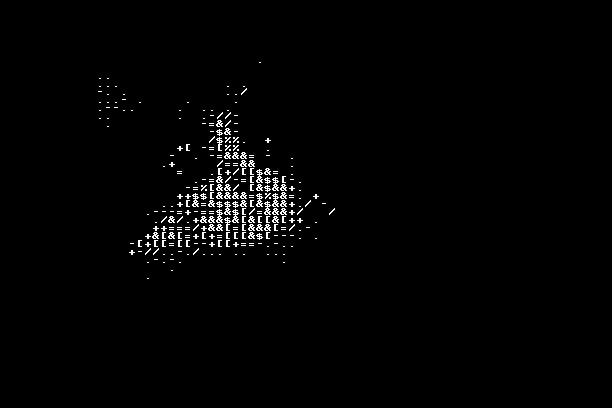
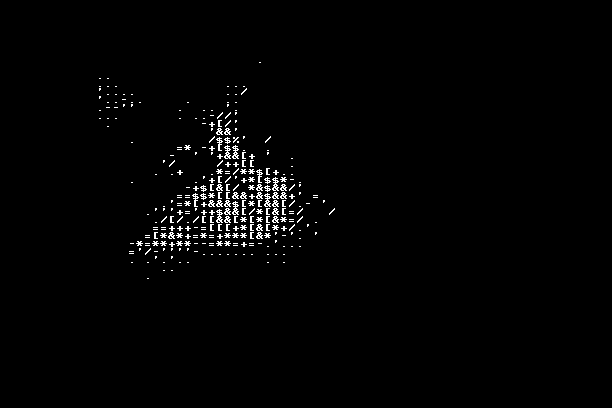
im sorry

Changed region(s): [[0.2173, 0.2941, 0.5278, 0.6176], [0.2794, 0.3529, 0.3105, 0.3824]]

diff --git a/src/shader.rs b/src/shader.rs
@@ -2,6 +2,7 @@ pub mod effects {
     use ab_glyph::{FontRef, PxScale};
     use image::{DynamicImage, GrayImage, Luma, Rgb, RgbImage, imageops};
     use imageproc::{self, drawing::draw_text};
+    use std::time::Instant;
 
     pub struct AsciiConfig {
         pub charset: String,
@@ -10,16 +11,34 @@ pub mod effects {
         pub font: FontRef<'static>
     }
 
+    fn calculate_dimensions(width: u32, height: u32, scale: f32) -> (u32, u32) {
+        let nwidth = ((width as f32) / scale).floor().max(1.0) as u32;
+        let nheight = ((height as f32) / scale).floor().max(1.0) as u32;
+        (nwidth, nheight)
+    }
+
+    // lookup table to map luminance to ascii chars
+    fn build_luminance_lookup_table(gradient: &[u8]) -> [char; 256] {
+        let mut table = [' '; 256];
+        let gradient_len = gradient.len() as f32;
+        for lum in 0..256 {
+            let idx = ((lum as f32 / 255.0) * (gradient_len - 1.0)) as usize;
+            table[lum] = gradient[idx] as char;
+        }
+        table
+    }
+
     pub fn apply_ascii_luma(img: &image::GrayImage, config: &AsciiConfig) -> DynamicImage {
         let gradient: &[u8] = config.charset.as_bytes();
-        let mut old_y = 0;
-        let mut char_batch = String::new();
+        
+        // pre-compute lookup table
+        let lum_table = build_luminance_lookup_table(gradient);
+        
         let font_scale = PxScale { x: config.scale, y: config.scale};
         let font = &config.font;
-        let nwidth: u32 =  ((img.width() as f32) / config.scale).floor().max(1.0) as u32;
-        let nheight: u32 =  ((img.height() as f32) / config.scale).floor().max(1.0) as u32;
+        let (nwidth, nheight) = calculate_dimensions(img.width(), img.height(), config.scale);
 
-        // resize old img, create new one, and define ascii ramp
+        // resize old img, create new one
         let resized = imageops::resize(img, nwidth, nheight, imageops::FilterType::Nearest);
         let mut output_img = GrayImage::from_pixel(
             img.width(), 
@@ -27,132 +46,134 @@ pub mod effects {
             Luma([0])
         );
 
-        // test text color
-        let text_color = Luma([255]);
+        let text_color = Luma([255]);    
+        let mut char_batch = String::with_capacity(nwidth as usize);
 
-        // loop through pixels
-        for (_, y, pixel) in resized.enumerate_pixels() {
-            if y != old_y {
-                output_img = draw_text(
-                    &output_img, 
-                    text_color, 
-                    0, 
-                    (old_y as f32 * config.scale) as i32, 
-                    font_scale, 
-                    font, 
-                    &char_batch
-                );
-
-                char_batch.clear();
-                old_y = y;
+        // process row by row
+        let start = Instant::now();
+        for y in 0..nheight {
+            char_batch.clear();
+            
+            for x in 0..nwidth {
+                let pixel = resized.get_pixel(x, y);
+                let luminance = pixel.0[0];
+                char_batch.push(lum_table[luminance as usize]);
             }
-            let [luminance] = pixel.0;
-            let idx = (luminance as f32 / 255.0 * (gradient.len() as f32 - 1.0)) as usize;
-            let ch = gradient[idx] as char;
-        
-            char_batch.push(ch);
-        }
-
-         // last line
-        if !char_batch.is_empty() {
-            output_img = draw_text(&output_img, 
-                text_color,
-                0,
-                (old_y as f32 * config.scale) as i32, 
-                font_scale,
+            
+            output_img = draw_text(
+                &output_img, 
+                text_color, 
+                0, 
+                (y as f32 * config.scale) as i32, 
+                font_scale, 
                 font, 
                 &char_batch
             );
         }
 
-        DynamicImage::ImageLuma8(output_img.clone())
+        println!("ASCII conversion took: {:?}", start.elapsed());
+        DynamicImage::ImageLuma8(output_img)
     }
 
     pub fn apply_ascii_rgb(img: &image::RgbImage, config: &AsciiConfig) -> DynamicImage {
         let gradient: &[u8] = config.charset.as_bytes();
-        let mut old_y = 0;
-        let mut char_batch = String::new();
+        
+        // pre-compute lookup table
+        let lum_table = build_luminance_lookup_table(gradient);
+        
         let font_scale = PxScale { x: config.scale, y: config.scale};
         let font = &config.font;
-        let nwidth: u32 =  ((img.width() as f32) / config.scale).floor().max(1.0) as u32;
-        let nheight: u32 =  ((img.height() as f32) / config.scale).floor().max(1.0) as u32;
+        let (nwidth, nheight) = calculate_dimensions(img.width(), img.height(), config.scale);
 
-        // resize old img, create new one, and define ascii ramp
+        // resize images once
         let resized_rgb = imageops::resize(img, nwidth, nheight, imageops::FilterType::Nearest);
         let resized_gray = imageops::colorops::grayscale(&resized_rgb);
         
         let mut output_img = RgbImage::from_pixel(
             img.width(), 
             img.height(), 
-            Rgb([0, 0 ,0])
+            Rgb([0, 0, 0])
         );
 
-        // test text color
-        let mut batch_color = Rgb([0u8, 0u8, 0u8]);
-        let mut batch_x = 0i32;
-        let flush_batch = |output: &RgbImage,
-        batch: &mut String,
-        color: Rgb<u8>,
-        x: i32,
-        y: u32| -> RgbImage {
+        let mut char_batch = String::with_capacity(nwidth as usize);
+        
+        let draw_text_mut = |output: &mut RgbImage,
+                             batch: &str,
+                             color: Rgb<u8>,
+                             x: i32,
+                             y: i32| {
             if !batch.is_empty() {
-                let result = draw_text(
-                    output,
-                    color,
-                    x,
-                    (y as f32 * config.scale) as i32,
-                    font_scale,
-                    font,
-                    batch
-                );
-                batch.clear();
-                result
-            } else {
-                output.clone()
+                *output = draw_text(output, color, x, y, font_scale, font, batch);
             }
         };
-
-        // loop through pixels
-        for (x, y, pixel) in resized_rgb.enumerate_pixels() {
-            // flush current batch if new line
-            if y != old_y {
-                output_img = flush_batch(&output_img, &mut char_batch, batch_color, batch_x, old_y);
-                old_y = y;
-            } 
-
-            let [r, g, b] = pixel.0;
-            let luminance = resized_gray.get_pixel(x, y).0[0];
-            let idx = (luminance as f32 / 255.0 * (gradient.len() - 1) as f32) as usize;
-            let ch = gradient[idx] as char;
         
-            let current_color = *pixel;
-            let is_space = ch.is_whitespace();
-
-            // skip spaces
-            if is_space {
-                if !char_batch.is_empty() {
-                    output_img = flush_batch(&output_img, &mut char_batch, batch_color, batch_x, y);
+        // process row by row
+        let start = Instant::now();
+        for y in 0..nheight {
+            char_batch.clear();
+            let mut batch_start_x = 0i32;
+            let mut batch_color = Rgb([0u8, 0u8, 0u8]);
+            let mut batch_empty = true;
+            
+            for x in 0..nwidth {
+                let pixel = resized_rgb.get_pixel(x, y);
+                let luminance = resized_gray.get_pixel(x, y).0[0];
+                let ch = lum_table[luminance as usize];
+                let current_color = *pixel;
+                
+                // skip spaces
+                if ch.is_whitespace() {
+                    if !batch_empty {
+                        draw_text_mut(
+                            &mut output_img,
+                            &char_batch,
+                            batch_color,
+                            batch_start_x,
+                            (y as f32 * config.scale) as i32
+                        );
+                        char_batch.clear();
+                        batch_empty = true;
+                    }
+                    continue;
                 }
-                continue;
-            }
 
-            // flush batch on color change
-            if !char_batch.is_empty() && current_color != batch_color {
-                output_img = flush_batch(&output_img, &mut char_batch, batch_color, batch_x, y);
-            } 
+                // flush batch on color change
+                if !batch_empty && current_color != batch_color {
+                    draw_text_mut(
+                        &mut output_img,
+                        &char_batch,
+                        batch_color,
+                        batch_start_x,
+                        (y as f32 * config.scale) as i32
+                    );
+                    char_batch.clear();
+                    batch_empty = true;
+                }
 
-            if char_batch.is_empty() {
-                batch_color = current_color;
-                batch_x = (x as f32 * config.scale) as i32;
+                // start new batch
+                if batch_empty {
+                    batch_color = current_color;
+                    batch_start_x = (x as f32 * config.scale) as i32;
+                    batch_empty = false;
+                }
+                
+                char_batch.push(ch);
             }
-            char_batch.push(ch);
+            
+            // flush remaining batch for this row
+            if !batch_empty {
+                draw_text_mut(
+                    &mut output_img,
+                    &char_batch,
+                    batch_color,
+                    batch_start_x,
+                    (y as f32 * config.scale) as i32
+                );
+            }
         }
 
-         // last line
-        if !char_batch.is_empty() {
-            output_img = flush_batch(&output_img, &mut char_batch, batch_color, batch_x, old_y);
-        }
-
+        println!("ASCII conversion took: {:?}", start.elapsed());
         DynamicImage::ImageRgb8(output_img)
     }
+
 }

diff --git a/src/main.rs b/src/main.rs
@@ -57,7 +57,7 @@ fn main() {
 
     // ascii config
     let ascii_config =  effects::AsciiConfig {
-        charset: String::from(" .-/+=[&$%#@"),
+        charset: String::from(" .'-/=+*[&$%#@"),
         invert: false,
         scale: down_scale,
         font: FontRef::try_from_slice(include_bytes!("../fonts/Bescii-Mono.ttf"))
